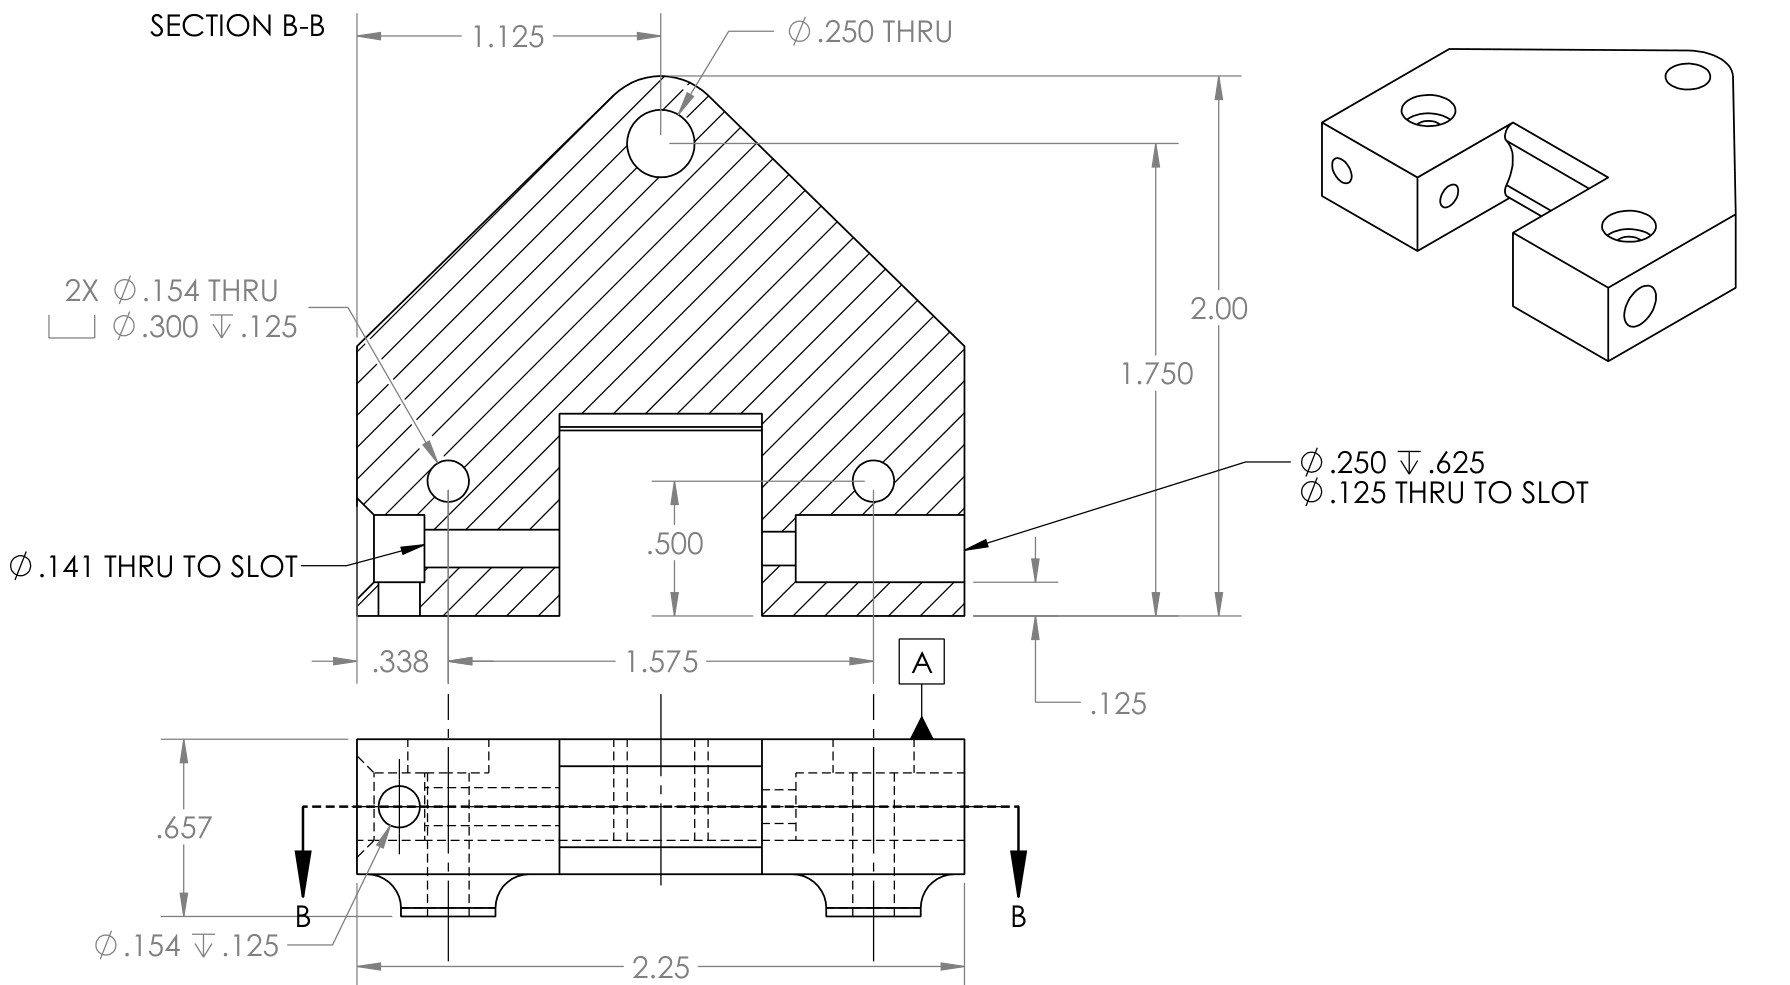
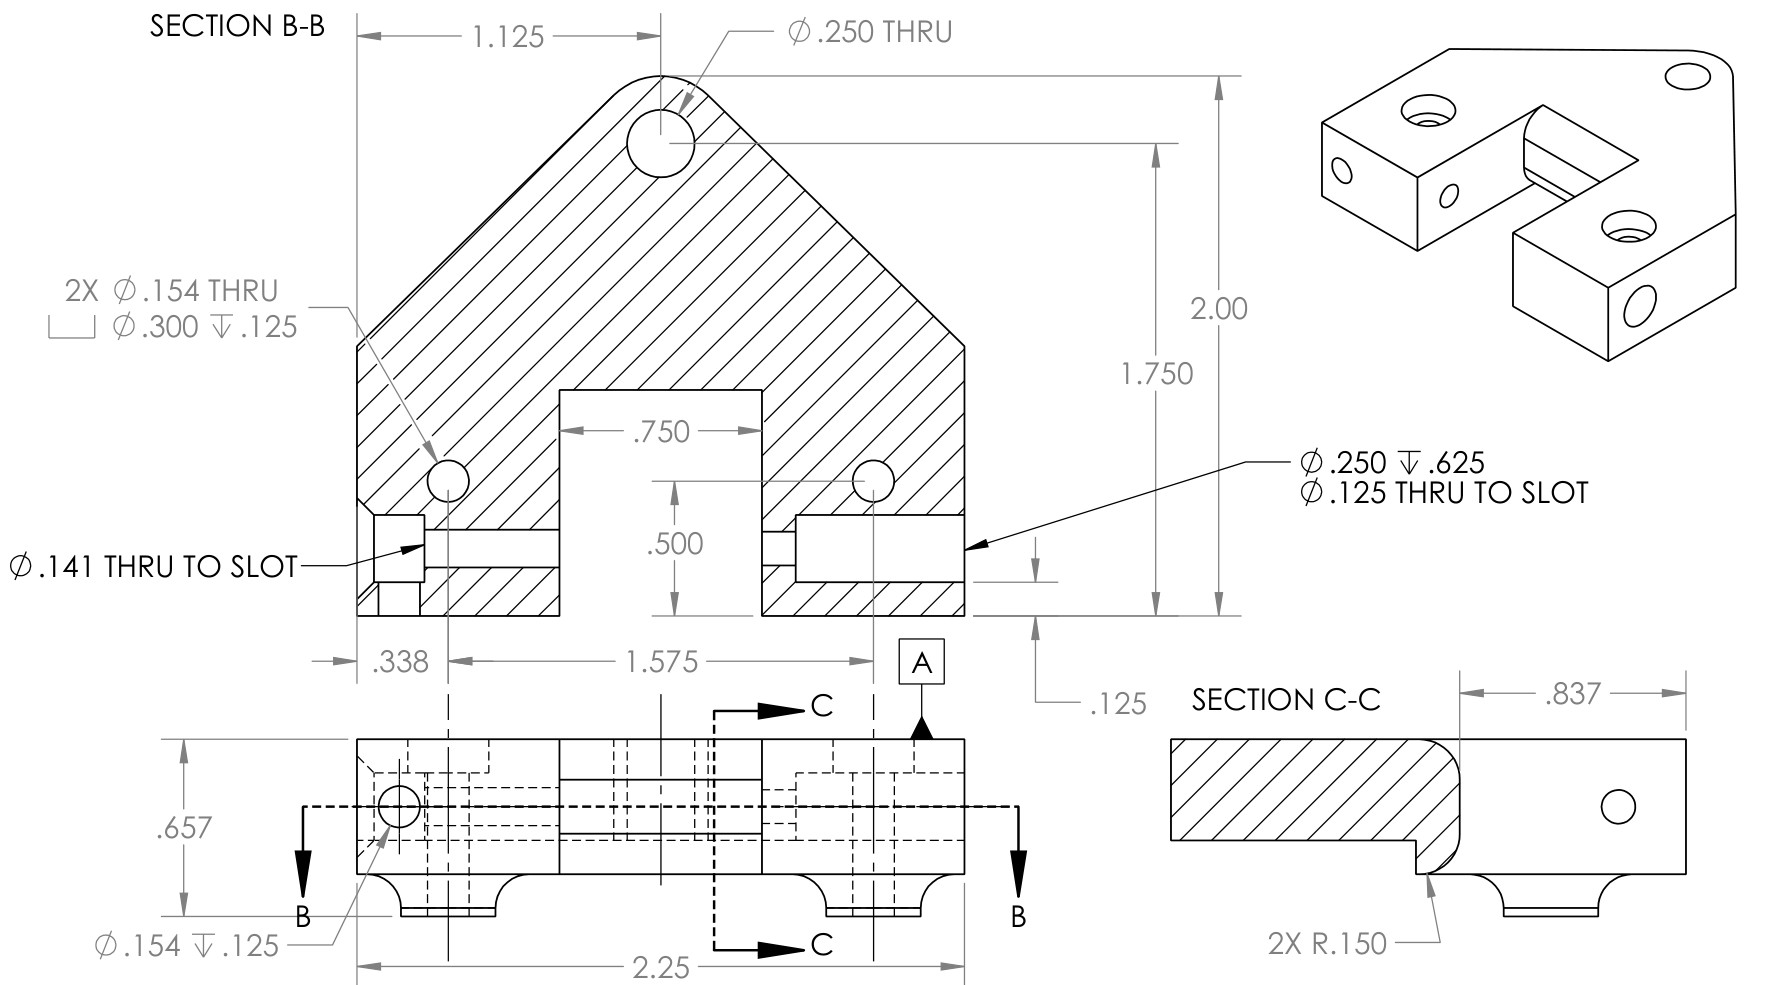
Update the ME 250 card for the final CAD
The CAD was finalized in early November. Adds the printed wheels Leon
designed (front omni wheels, rear wheels with an ABS core and TPU tread),
the seventh and final scoop version, and the V2 pivot joint drawing with
its title block cropped out.

diff --git a/index.html b/index.html
@@ -523,7 +523,7 @@
         </div>
         <div class="card-body">
           <h3>ME 250: Frontier Frenzy Robot</h3>
-          <p>I’m leading a team of five building a remote-controlled robot for ME 250’s Frontier Frenzy competition on December 10. We went with my concept, a two-joint arm with a printed scoop that lifts three hats off a shelf and hangs them on the hook wall together, and I’ve done the CAD for the whole robot. <strong>Concept sketch, CAD and scoop versions in the details.</strong></p>
+          <p>I’m leading a team of five building a remote-controlled robot for ME 250’s Frontier Frenzy competition on December 10. We went with my concept, a two-joint arm with a printed scoop that lifts three hats off a shelf and hangs them on the hook wall together. I did the CAD for the whole robot, which we finalized in early November. <strong>Concept sketch, CAD, printed wheels and scoop versions in the details.</strong></p>
           <div class="tools" data-clamp><span class="tool">SolidWorks</span><span class="tool">Design for manufacturing</span><span class="tool">3D printing (FDM)</span><span class="tool">Prototyping</span><span class="tool">Physical testing</span><button type="button" class="tools-more" hidden aria-label="Show all skills"></button></div>
           <a class="card-link" href="#" data-study="me250">Details <span class="arrow">→</span></a>
         </div>
@@ -1938,11 +1938,11 @@
     <h3 id="csMe250Title" style="font-size:1.6rem;margin-top:6px">ME 250: Frontier Frenzy Robot</h3>
     <p class="cs-meta">Design and Manufacturing I · Fall 2026 · team of 5 · Role: team lead, robot concept and CAD</p>
     <p>ME 250 is Michigan’s Design and Manufacturing course. Every team gets the same kit and builds a remote-controlled robot for one game. This year’s is Frontier Frenzy, where a squad of three or four robots has five minutes on a western-themed field to score as many of its 410 points as possible.</p>
-    <p>Our robot’s main job is hats. It helps knock over the robbers, gets into the saloon, then picks the six blue hats off the two shelves three at a time and hangs them on the hook wall. A hat on a hook scores 20 points, so those six are worth 120. We presented the design at the October design review and the parts are being fabricated now, ahead of the competition at the Design Expo on December 10.</p>
+    <p>Our robot’s main job is hats. It helps knock over the robbers, gets into the saloon, then picks the six blue hats off the two shelves three at a time and hangs them on the hook wall. A hat on a hook scores 20 points, so those six are worth 120. We presented the design at the October design review and finalized the CAD in early November. The parts are being fabricated now, ahead of the competition at the Design Expo on December 10.</p>
     <div class="cs-stats">
       <div class="cs-stat"><div class="n">3 hats</div><div class="l">lifted and hung together</div></div>
       <div class="cs-stat"><div class="n">120 pts</div><div class="l">target: the six blue hats on hooks</div></div>
-      <div class="cs-stat"><div class="n">6 versions</div><div class="l">of the scoop in CAD</div></div>
+      <div class="cs-stat"><div class="n">7 versions</div><div class="l">of the scoop in CAD</div></div>
       <div class="cs-stat"><div class="n">Dec 10</div><div class="l">competition at the Design Expo</div></div>
     </div>
     <div class="cs-gallery" style="grid-template-columns:repeat(2,1fr)">
@@ -1951,22 +1951,27 @@
     </div>
 
     <h4>My part</h4>
-    <p>We each sketched two concepts and scored all ten in a weighted decision matrix. Mine came out on top and became the final design, and I’m leading the team through the build. I designed the arm and scoop, a few of the parts with a teammate, and I’ve done the CAD for the whole robot. The chassis started as a teammate’s draft based on the course’s example assembly, and I reworked it into its current state. My teammates are drawing and fabricating most of the arm and scoop parts, and I’m drawing and printing the pivot joint, the belt tensioners and a few small spacers myself.</p>
+    <p>We each sketched two concepts and scored all ten in a weighted decision matrix. Mine came out on top and became the final design, and I’m leading the team through the build. I designed the arm, the scoop and the wheels, a few of the arm parts with a teammate, and I did the CAD for the whole robot. The chassis started as a teammate’s draft based on the course’s example assembly, and I reworked it into its final form. My teammates are drawing and fabricating most of the parts, and I’m drawing and printing the pivot joint, the belt tensioners, all four wheels and a few small spacers myself.</p>
     <div class="cs-gallery" style="grid-template-columns:repeat(2,1fr)">
       <figure><img src="img/me250/sketch.jpg" alt="Hand-drawn top view of the robot concept with labels: three hats on a 10 inch wide scoop, a spring-loaded self-centering joint, a cutout in the base plate for reaching floor hats, and a belted drive to joint 2" loading="lazy"><figcaption>My concept sketch: a scoop for three hats on a spring-loaded joint, with a belted drive to the second joint.</figcaption></figure>
-      <figure><img src="img/me250/top-view.jpg" alt="Top view of the arm and scoop in CAD, turned to match the sketch: the scoop at the top, the arm below it, and at its base a gearmotor with a timing belt on one side and a planetary gearbox with a gear pair on the other" loading="lazy"><figcaption>The arm and scoop in the current CAD, from the same angle. The gear pair is at the first joint and the belt runs up to the second.</figcaption></figure>
+      <figure><img src="img/me250/top-view.jpg" alt="Top view of the arm and scoop in CAD, turned to match the sketch: the scoop at the top, the arm below it, and at its base a gearmotor with a timing belt on one side and a planetary gearbox with a gear pair on the other" loading="lazy"><figcaption>The arm and scoop in CAD, from the same angle. The gear pair is at the first joint and the belt runs up to the second.</figcaption></figure>
     </div>
     <div class="cs-sub"><h5>A scoop for three hats</h5><p>The scoop holds three hats in channels about 4&nbsp;in apart, the same spacing as the hooks, so one lineup hangs all three. It’s 10&nbsp;in wide, the most the 10&nbsp;×&nbsp;10&nbsp;in starting footprint allows, and it’s printed in ABS at about 62&nbsp;g. Two extension springs at the end of the arm let it self-center on its joint.</p></div>
     <div class="cs-sub"><h5>Motors at the base of the arm</h5><p>A four-stage planetary gearbox lifts the arm at the first joint through a 24-to-72-tooth gear pair. A Pololu gearmotor tilts the scoop at the second joint through an XL timing belt running up the arm, which keeps that motor’s weight on the chassis. The belt’s ends clamp into two printed tensioners, and a cable tie pulls them together to set the tension.</p></div>
     <div class="cs-gallery cs-gallery--drawing">
       <figure><img src="img/me250/arm-scoop.jpg" alt="CAD of the arm and scoop at an angle: a square aluminum arm with a timing belt alongside it, a planetary gearbox and a gearmotor at its base, and a three-channel scoop at the far end" loading="lazy"><figcaption>The arm and scoop in SolidWorks, as of late October.</figcaption></figure>
-      <figure><img src="img/me250/pivot-drawing.jpg" alt="Engineering drawing of the pivot joint, with a dimensioned section view, a side view and a small isometric view of the pentagon-shaped printed part" loading="lazy"><figcaption>My drawing of the pivot joint, the printed part at the second joint that carries the scoop.</figcaption></figure>
+      <figure><img src="img/me250/pivot-drawing.jpg" alt="Engineering drawing of the pivot joint, with two dimensioned section views, a side view and a small isometric view of the pentagon-shaped printed part" loading="lazy"><figcaption>My drawing of the pivot joint, the printed part at the second joint that carries the scoop.</figcaption></figure>
     </div>
-    <div class="cs-sub"><h5>Six versions of the scoop</h5><p>The first version was 7&nbsp;in wide with tall dividers between its three pockets. By the second it had grown to the full 10&nbsp;in, and the later versions reworked the dividers into raised guides.</p></div>
+    <div class="cs-sub"><h5>Seven versions of the scoop</h5><p>The first version was 7&nbsp;in wide with tall dividers between its three pockets. By the second it had grown to the full 10&nbsp;in, and the later versions reworked the dividers into raised guides. The seventh and final version moved the two mounting holes and counterbored them to clear the nuts.</p></div>
     <div class="cs-gallery">
       <figure><img src="img/me250/scoop-v1.jpg" alt="CAD render of the first scoop version: three pockets with round cutouts, separated by tall dividers" loading="lazy"><figcaption>v1: 7&nbsp;in wide, with tall dividers.</figcaption></figure>
       <figure><img src="img/me250/scoop-v3.jpg" alt="CAD render of the third scoop version: wider, with raised angled guides between the pockets" loading="lazy"><figcaption>v3: 10&nbsp;in wide, with raised guides between the pockets.</figcaption></figure>
-      <figure><img src="img/me250/scoop-v6.jpg" alt="CAD render of the sixth scoop version: reshaped guides and two small holes in the back wall of the center pocket" loading="lazy"><figcaption>v6: reshaped guides and two mounting holes in the back wall.</figcaption></figure>
+      <figure><img src="img/me250/scoop-v7.jpg" alt="CAD render of the seventh and final scoop version: reshaped guides between the pockets and two mounting holes in the back wall of the center pocket" loading="lazy"><figcaption>v7, the final version, with reshaped guides and counterbored mounting holes.</figcaption></figure>
+    </div>
+    <div class="cs-sub"><h5>Chassis and wheels</h5><p>The base plate is water-jet cut from 1/4&nbsp;in aluminum, with a cutout so the arm can reach the floor. A double gearbox drives each rear wheel with its own motor. I designed all four wheels to be printed. The front pair are omni wheels, each built from three hub plates and twelve rollers, so the front can slide sideways as the robot turns. The rear pair have a rigid ABS core inside a TPU tread for grip.</p></div>
+    <div class="cs-gallery" style="grid-template-columns:repeat(2,1fr)">
+      <figure><img src="img/me250/wheel-omni.jpg" alt="CAD render of a front omni wheel: a printed hub with three screws through it and barrel-shaped rollers spaced around its rim" loading="lazy"><figcaption>A front omni wheel: three printed hub plates, twelve printed rollers and three screws.</figcaption></figure>
+      <figure><img src="img/me250/wheel-rear.jpg" alt="CAD render of a rear wheel: a light grey core with a shaped center bore inside a darker tread ring" loading="lazy"><figcaption>A rear wheel: an ABS core inside a TPU tread, both printed.</figcaption></figure>
     </div>
 
     <h4>How we sized and tested it</h4>
@@ -1981,7 +1986,7 @@
         </tbody>
       </table>
     </div>
-    <p>On a printed prototype before the review, the arm moved too fast to control at 6&nbsp;V. We timed the 90° swing across a range of voltages and settled on 2.2 to 2.5&nbsp;V for the planetary gearbox. On the chassis, a double gearbox drives each rear wheel with its own motor, the front wheels idle, and a cutout in the base plate lets the arm reach the floor.</p>
+    <p>On a printed prototype before the review, the arm moved too fast to control at 6&nbsp;V. We timed the 90° swing across a range of voltages and settled on 2.2 to 2.5&nbsp;V for the planetary gearbox.</p>
     <div class="cs-gallery" style="grid-template-columns:repeat(2,1fr)">
       <figure><img src="img/me250/full-robot.jpg" alt="CAD of the full robot: the arm and scoop raised over a chassis with a control box, orange rear wheels and grey front wheels" loading="lazy"><figcaption>The full robot in CAD at the design review.</figcaption></figure>
       <figure><img src="img/me250/prototype.jpg" alt="A black 3D-printed arm and scoop clamped to a bench, with two people holding it during a test and wires running to the motor" loading="lazy"><figcaption>The printed prototype arm clamped to the bench for the voltage test.</figcaption></figure>
